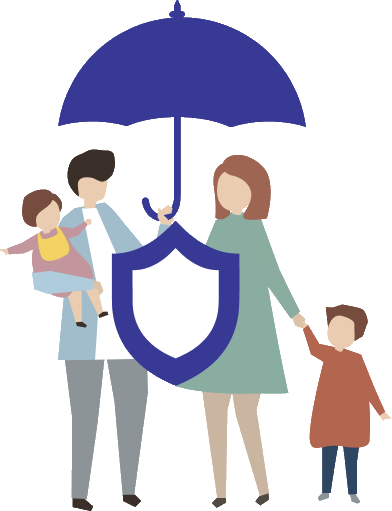
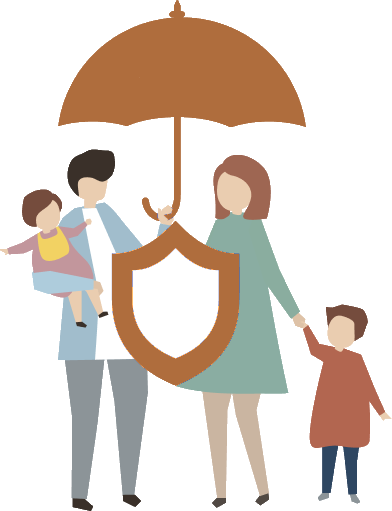
feat(login): Nyala branding for the illustrated sign-in page
Brown backdrop with bronze/rust glows, Nyala mark and wordmark, umbrella
illustration recoloured from Awash navy to Nyala bronze, Nyala footer.

Changed region(s): [[0.1531, 0.0, 0.7959, 0.7632]]

diff --git a/src/views/Login.vue b/src/views/Login.vue
@@ -1,7 +1,7 @@
 <script setup>
 import LoginForm from "./LoginForm.vue";
-import logo from "@/assets/img/logo.png";
-import mark from "@/assets/img/awash-mark.png";
+import logo from "@/assets/img/logoD.png";
+import mark from "@/assets/img/nyala-mark.png";
 import family from "@/assets/img/login-family.png";
 
 const year = new Date().getFullYear();
@@ -30,8 +30,8 @@ const features = [
     <!-- Decorative layer (clipped so it never adds scroll) -->
     <div class="overflow-hidden absolute inset-0 pointer-events-none" aria-hidden="true">
       <div class="login-rings" />
-      <div class="login-orb login-orb--cyan" />
-      <div class="login-orb login-orb--blue" />
+      <div class="login-orb login-orb--bronze" />
+      <div class="login-orb login-orb--rust" />
     </div>
 
     <div class="flex relative flex-col min-h-full">
@@ -40,7 +40,7 @@ const features = [
         <span class="grid place-items-center w-10 h-10 bg-white rounded-xl shadow-sm">
           <img :src="mark" alt="" class="w-7 h-7" />
         </span>
-        <span class="text-lg font-semibold tracking-tight text-white">Awash Insurance</span>
+        <span class="text-lg font-semibold tracking-tight text-white">Nyala Insurance</span>
       </header>
 
       <div
@@ -50,7 +50,7 @@ const features = [
         <section class="hidden flex-col-reverse gap-8 items-center lg:flex 2xl:flex-row 2xl:gap-12 2xl:justify-between" aria-label="About Health Connect">
           <ul class="space-y-5 w-full max-w-md 2xl:max-w-sm 2xl:space-y-6">
             <li v-for="item in features" :key="item.title" class="flex gap-4 items-start">
-              <span class="grid place-items-center w-10 h-10 rounded-xl ring-1 shrink-0 bg-white/10 ring-white/15 text-[#7dd3fc]" aria-hidden="true">
+              <span class="grid place-items-center w-10 h-10 rounded-xl ring-1 shrink-0 bg-white/10 ring-white/15 text-[#f3cfa6]" aria-hidden="true">
                 <svg class="w-5 h-5" viewBox="0 0 24 24" fill="none" stroke="currentColor" stroke-width="1.6" stroke-linecap="round" stroke-linejoin="round">
                   <path :d="item.icon" />
                 </svg>
@@ -70,14 +70,14 @@ const features = [
         <!-- Sign in -->
         <main class="justify-self-center w-full max-w-[440px] login-card" aria-labelledby="login-title">
           <div class="flex justify-center mb-6">
-            <img :src="logo" alt="Awash Insurance" class="w-auto h-12 sm:h-14" />
+            <img :src="logo" alt="Nyala Insurance" class="w-auto h-14 sm:h-16" />
           </div>
           <LoginForm />
         </main>
       </div>
 
       <footer class="px-5 pb-6 text-xs text-center sm:px-10 lg:px-14 lg:text-left text-white/60">
-        © {{ year }} Awash Insurance Company S.C. All rights reserved.
+        © {{ year }} Nyala Insurance S.C. All rights reserved.
       </footer>
     </div>
   </div>
@@ -86,7 +86,7 @@ const features = [
 <style scoped>
 .login-backdrop {
   isolation: isolate;
-  background: linear-gradient(150deg, rgb(52 60 112) 0%, rgb(36 44 92) 45%, rgb(22 28 64) 100%);
+  background: linear-gradient(150deg, rgb(96 76 70) 0%, rgb(70 54 50) 45%, rgb(40 29 27) 100%);
 }
 
 /* Concentric rings centred behind the card (CSS replacement for ornament.jpg) */
@@ -107,19 +107,19 @@ const features = [
   border-radius: 9999px;
   filter: blur(80px);
 }
-.login-orb--cyan {
+.login-orb--bronze {
   width: 460px;
   height: 460px;
   right: 6%;
   top: 4%;
-  background: radial-gradient(circle, rgb(0 174 217 / 0.45), rgb(0 174 217 / 0) 70%);
+  background: radial-gradient(circle, rgb(184 128 84 / 0.42), rgb(184 128 84 / 0) 70%);
 }
-.login-orb--blue {
+.login-orb--rust {
   width: 520px;
   height: 520px;
   left: 22%;
   bottom: -12%;
-  background: radial-gradient(circle, rgb(91 120 255 / 0.35), rgb(91 120 255 / 0) 70%);
+  background: radial-gradient(circle, rgb(150 70 30 / 0.4), rgb(150 70 30 / 0) 70%);
 }
 
 /* Soft spotlight + ground shadow under the illustration */
@@ -151,7 +151,7 @@ const features = [
   border: 1px solid rgb(255 255 255 / 0.7);
   box-shadow:
     inset 0 1px 0 rgb(255 255 255 / 0.9),
-    0 30px 70px -20px rgb(6 10 35 / 0.6);
+    0 30px 70px -20px rgb(25 12 6 / 0.6);
   -webkit-backdrop-filter: blur(20px) saturate(160%);
   backdrop-filter: blur(20px) saturate(160%);
 }
